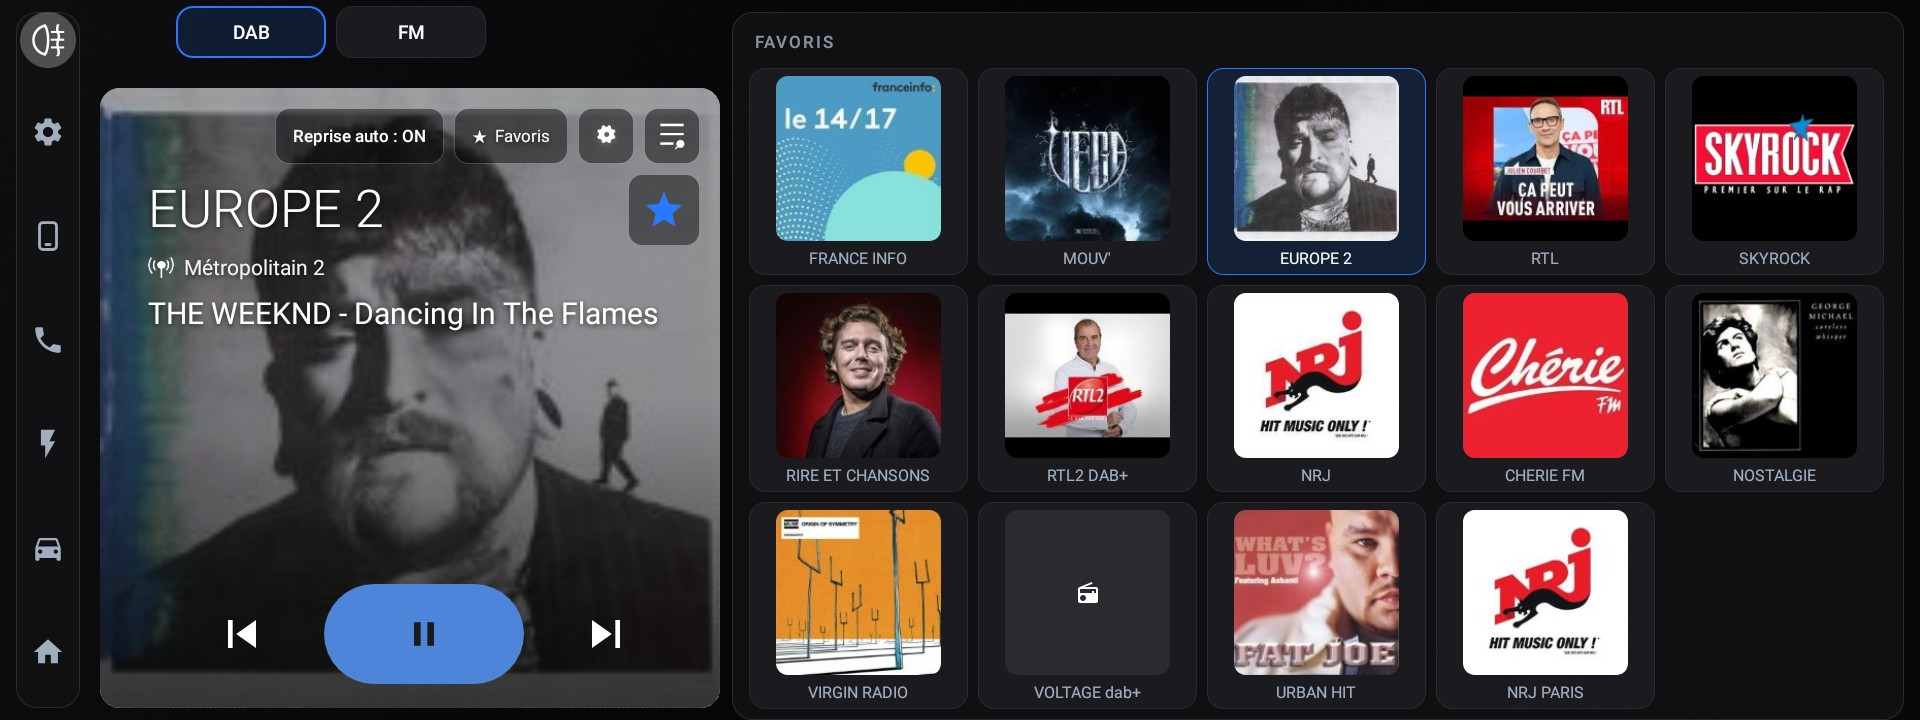
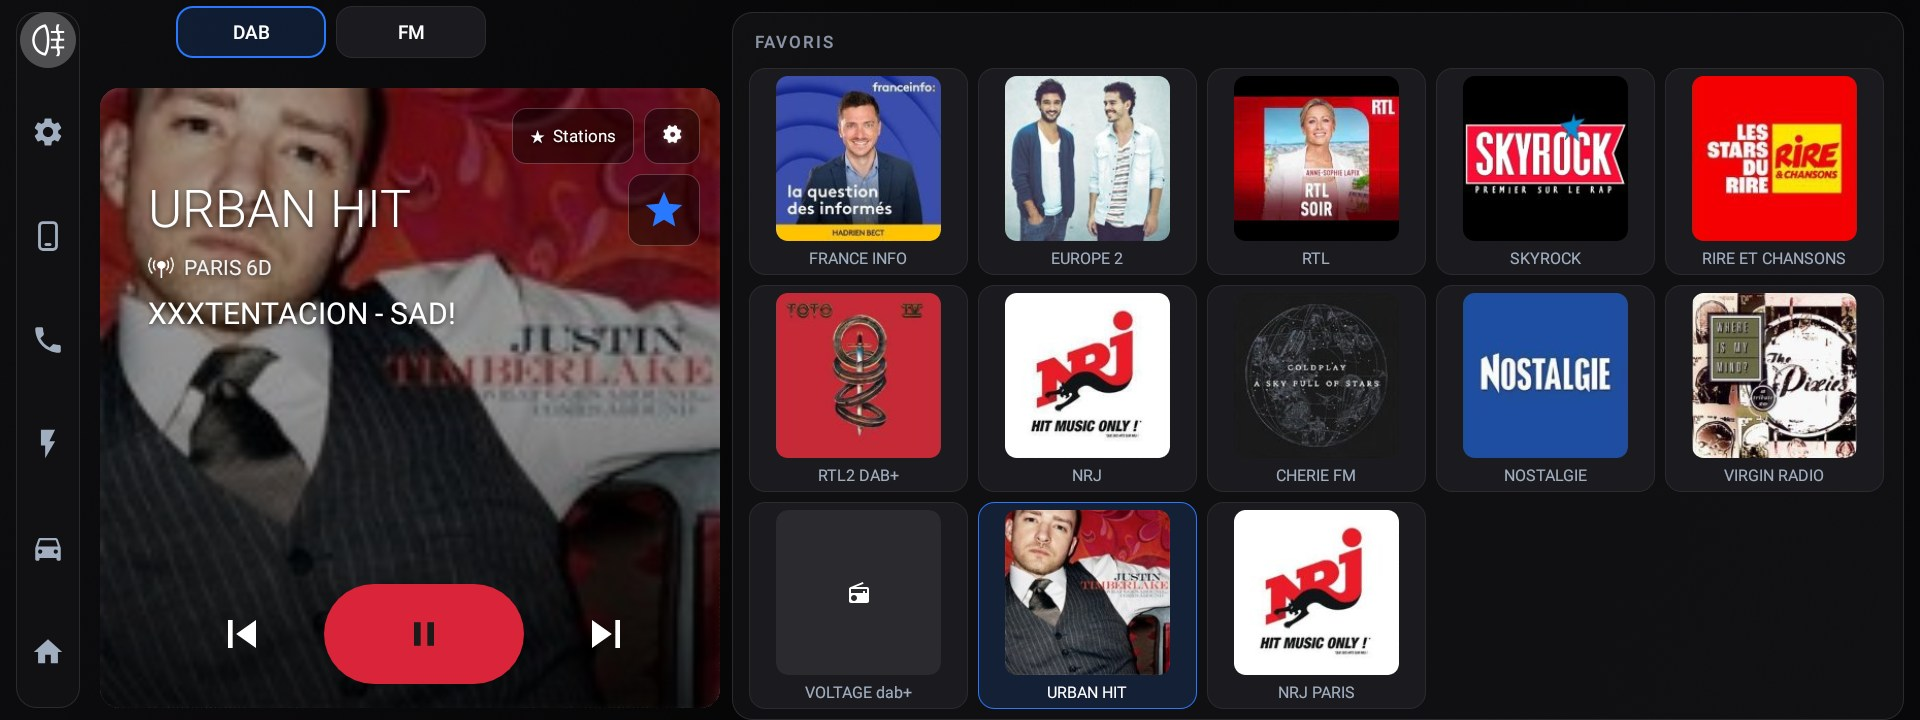
README: new DAB+, FM and Stations screenshots taken on the car, Stations window in 5 columns

diff --git a/README.md b/README.md
@@ -10,13 +10,13 @@ This fork restyles the stock SAIC radio app to match **[MG4Dash](https://github.
 
 ![MG4 Radio Dash, FM](screenshots/radio-dash-fm.jpg)
 
-*Screenshots taken on the car: DAB+ with the Immersive player and 5 columns of favourites (1.5.2, dark and light), FM with the dial and the favourite stations (1.4.0).*
+*Screenshots taken on the car: DAB+ with the Immersive player and 5 columns of favourites (dark: next version; light: 1.5.2, with the former button layout), FM with the full-width dial and the favourite stations (next version).*
 
 ### ★ Stations window
 
 ![Stations window](screenshots/radio-dash-favourites.jpg)
 
-The **★ Stations** button (called ★ Favourites up to 1.6.0) at the top of the player opens a full-screen list of every DAB+ station received, in alphabetical order, with its logo and multiplex, in 4 columns. One tap on a station adds or removes it from the favourites, saved at once by the radio (the same favourites as the star of the player and the bar on the right). Favourites already chosen stay ticked, even when the station is out of range. **Refresh** asks the tuner for its latest station list and reloads it a few seconds later. It does not run a band scan, which would retune the radio.
+The **★ Stations** button (called ★ Favourites up to 1.6.0) at the top of the player opens a full-screen list of every DAB+ station received, in alphabetical order, with its logo and multiplex, in 5 columns. One tap on a station adds or removes it from the favourites, saved at once by the radio (the same favourites as the star of the player and the bar on the right). Favourites already chosen stay ticked, even when the station is out of range. **Refresh** asks the tuner for its latest station list and reloads it a few seconds later. It does not run a band scan, which would retune the radio. On FM and AM, the same window lists the stations of that band and offers the scan described under 1.6.0. On FM and AM, the same window lists the stations of that band and offers the scan described under 1.6.0.
 
 ### What's new in this fork
 
